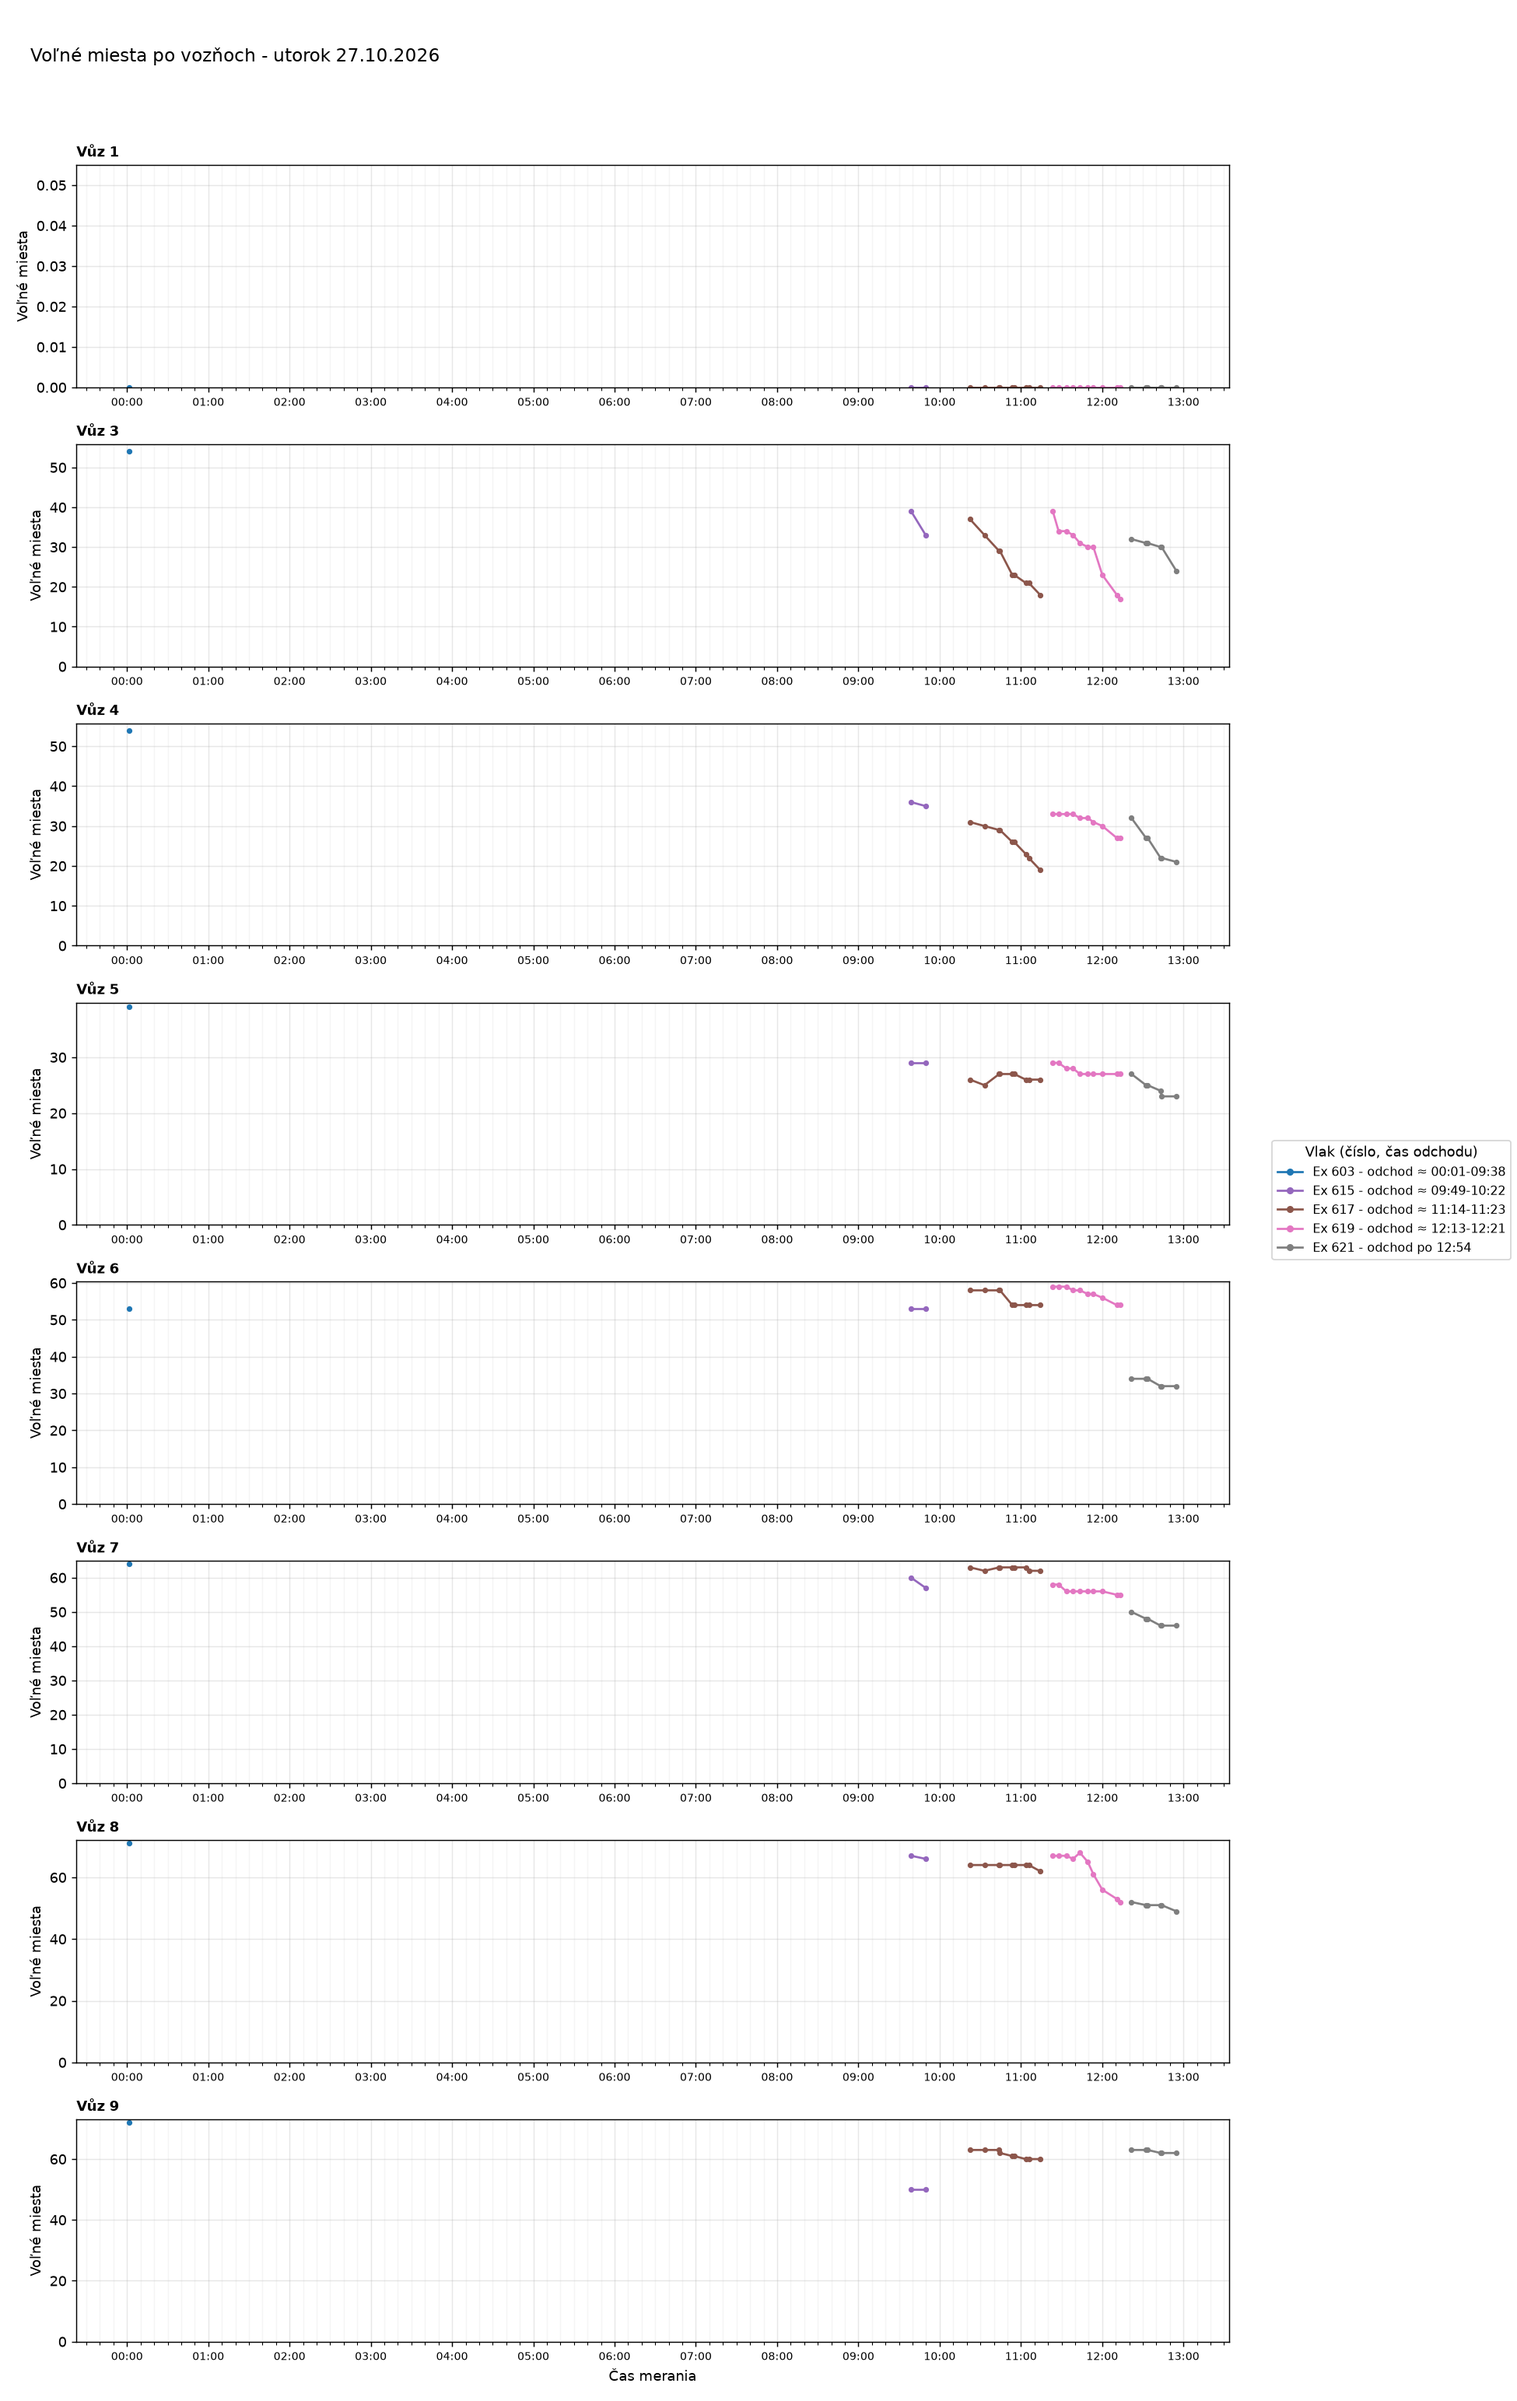
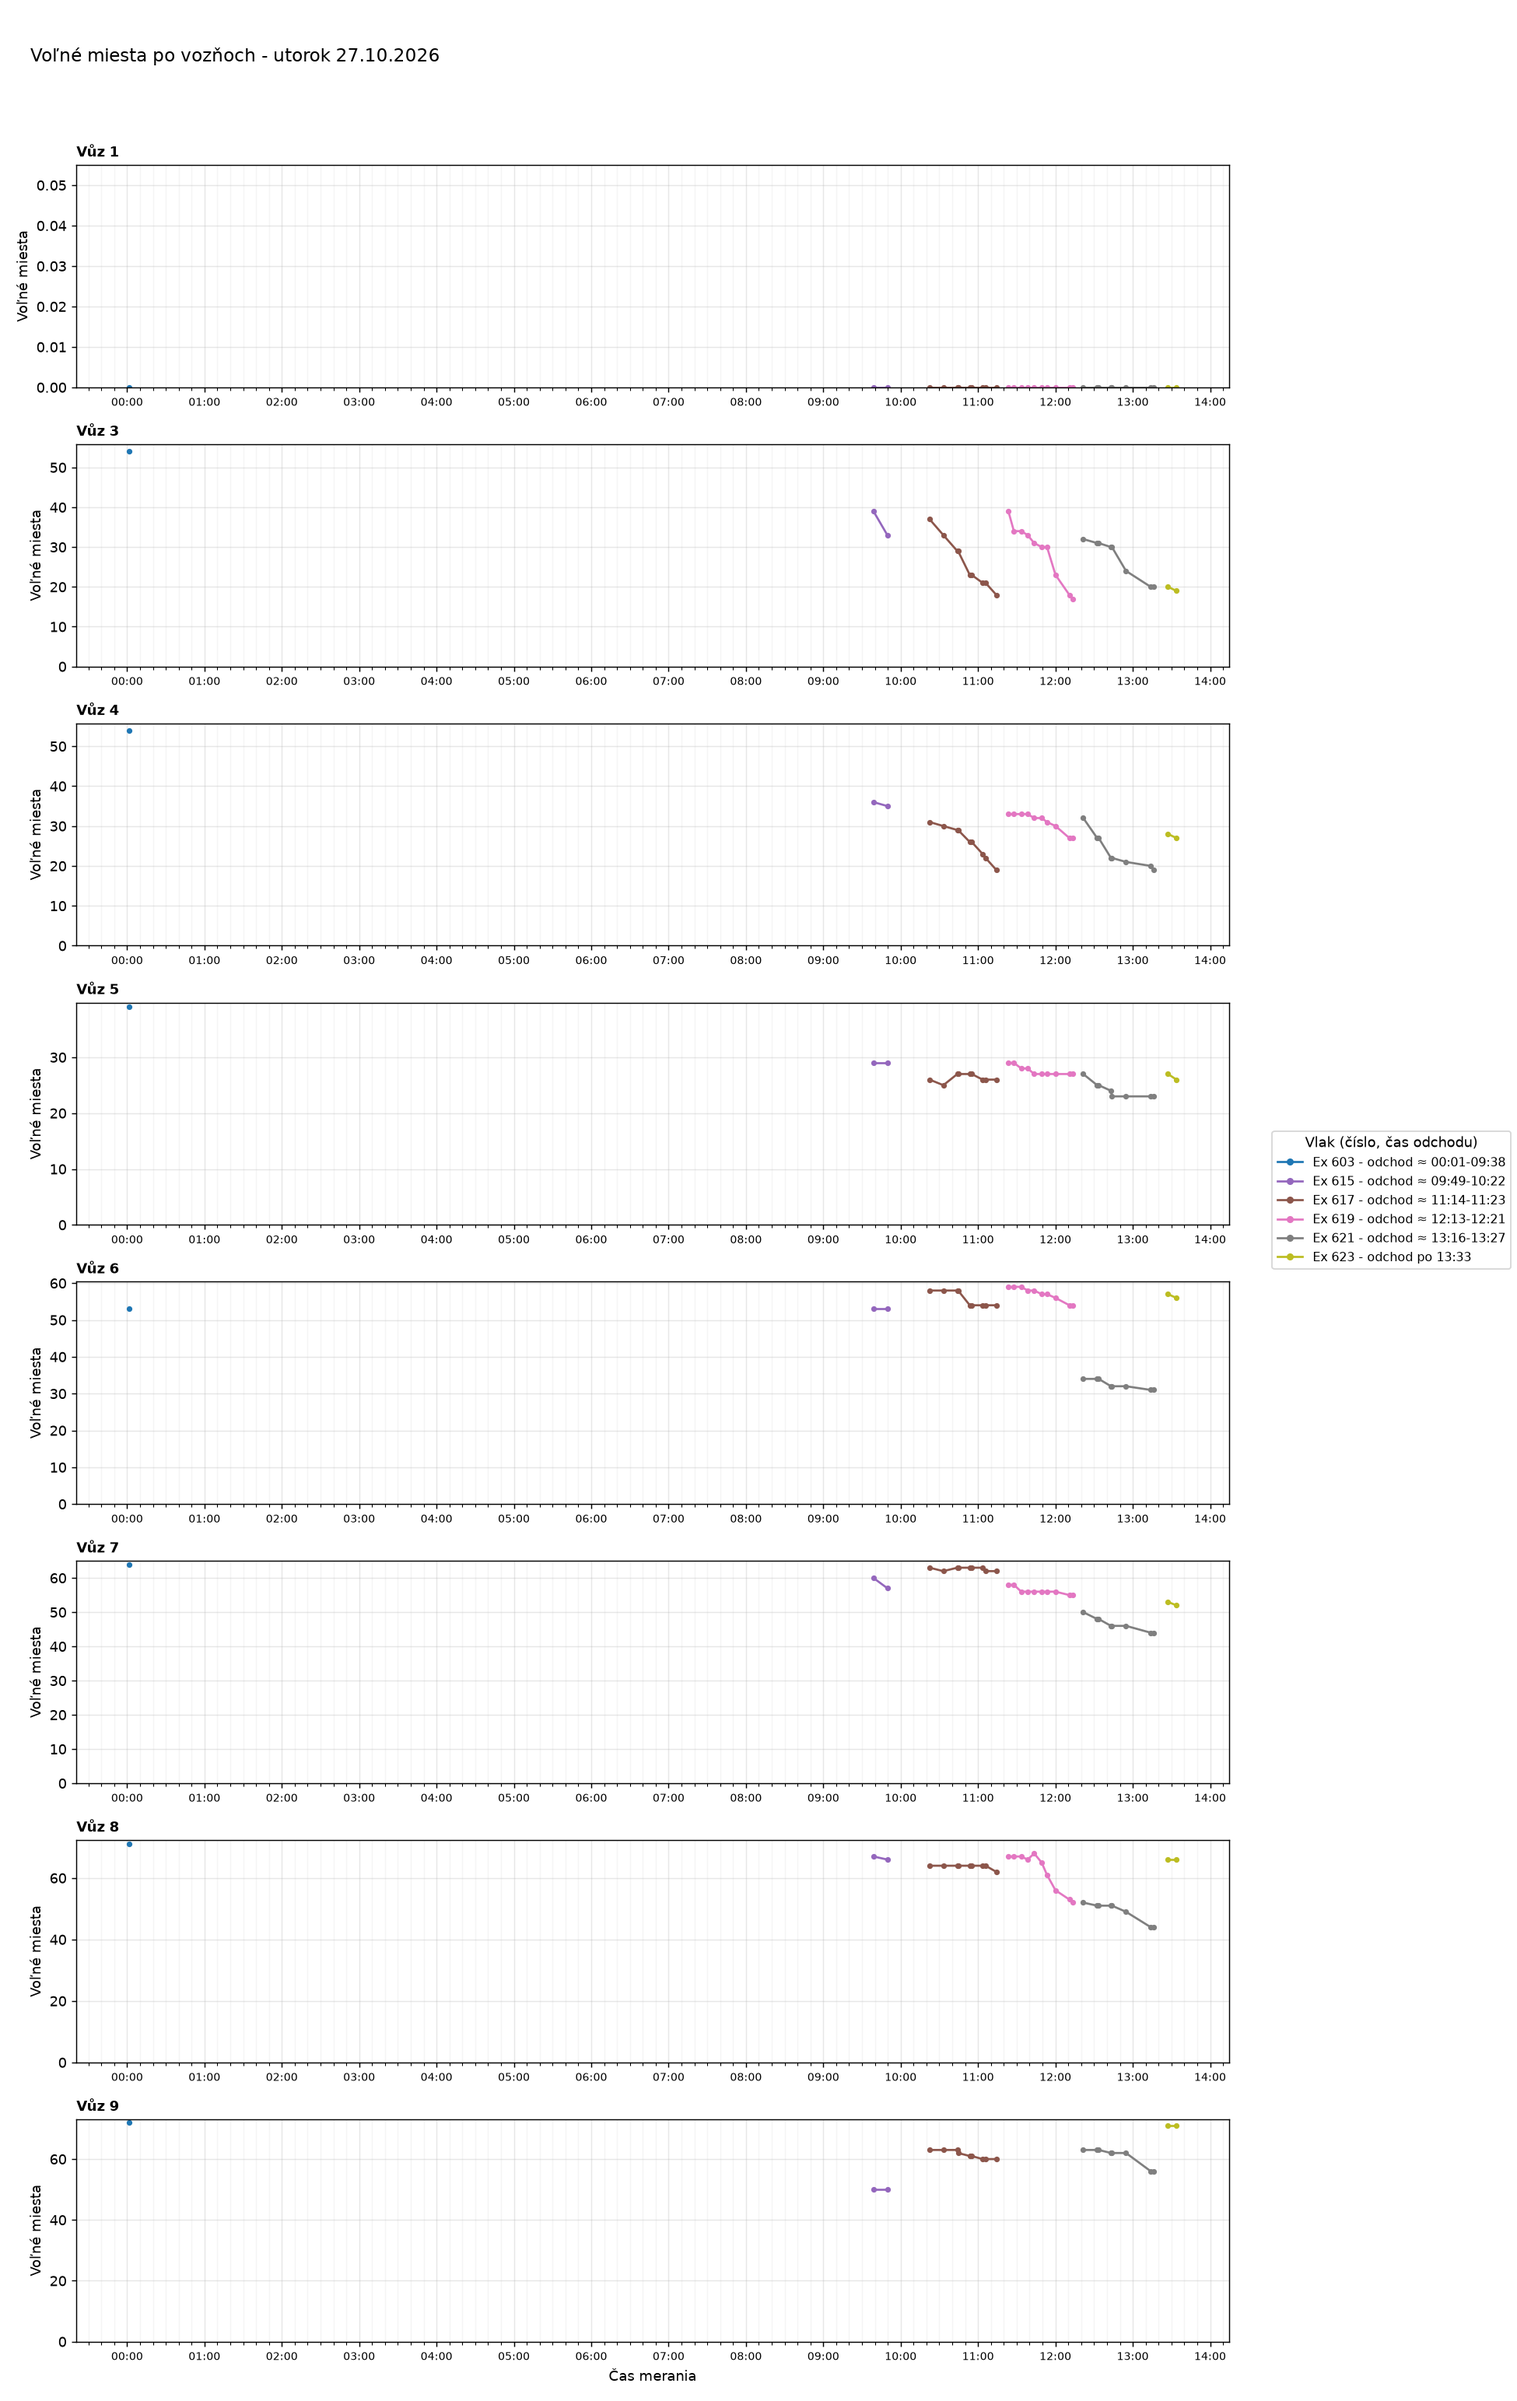
Aktualizácia grafov 2026-10-27 13:44

diff --git a/index.html b/index.html
@@ -35,7 +35,7 @@ h2.oddiel{margin:36px 0 0;font-size:1.4rem}
 <body>
 <main>
 <h1>Voľné miesta vo vlakoch</h1>
-<p class="muted">Posledné meranie: 27.10.2026 12:54 ·
+<p class="muted">Posledné meranie: 27.10.2026 13:33 ·
 <a href="data/obsadenost_data.csv">stiahnuť dáta (CSV)</a></p>
 <nav class="nav"><a href="#suhrn">Súhrn</a><a href="#statistiky">Štatistiky</a><a href="#historia">História grafov</a></nav>
 
@@ -44,7 +44,7 @@ h2.oddiel{margin:36px 0 0;font-size:1.4rem}
 <div class="tablewrap"><table>
 <thead><tr><th>Deň</th><th>Meraní</th><th>Vlakov</th><th>Čas meraní</th></tr></thead>
 <tbody>
-<tr><td><a href="#d2026-10-27">utorok 27.10.2026</a></td><td>28</td><td>5</td><td>00:01-12:54</td></tr>
+<tr><td><a href="#d2026-10-27">utorok 27.10.2026</a></td><td>32</td><td>6</td><td>00:01-13:33</td></tr>
 <tr><td><a href="#d2026-10-26">pondelok 26.10.2026</a></td><td>88</td><td>14</td><td>00:06-23:50</td></tr>
 <tr><td><a href="#d2026-10-25">nedeľa 25.10.2026</a></td><td>101</td><td>15</td><td>00:01-23:56</td></tr>
 <tr><td><a href="#d2026-10-24">sobota 24.10.2026</a></td><td>98</td><td>14</td><td>00:10-23:50</td></tr>
